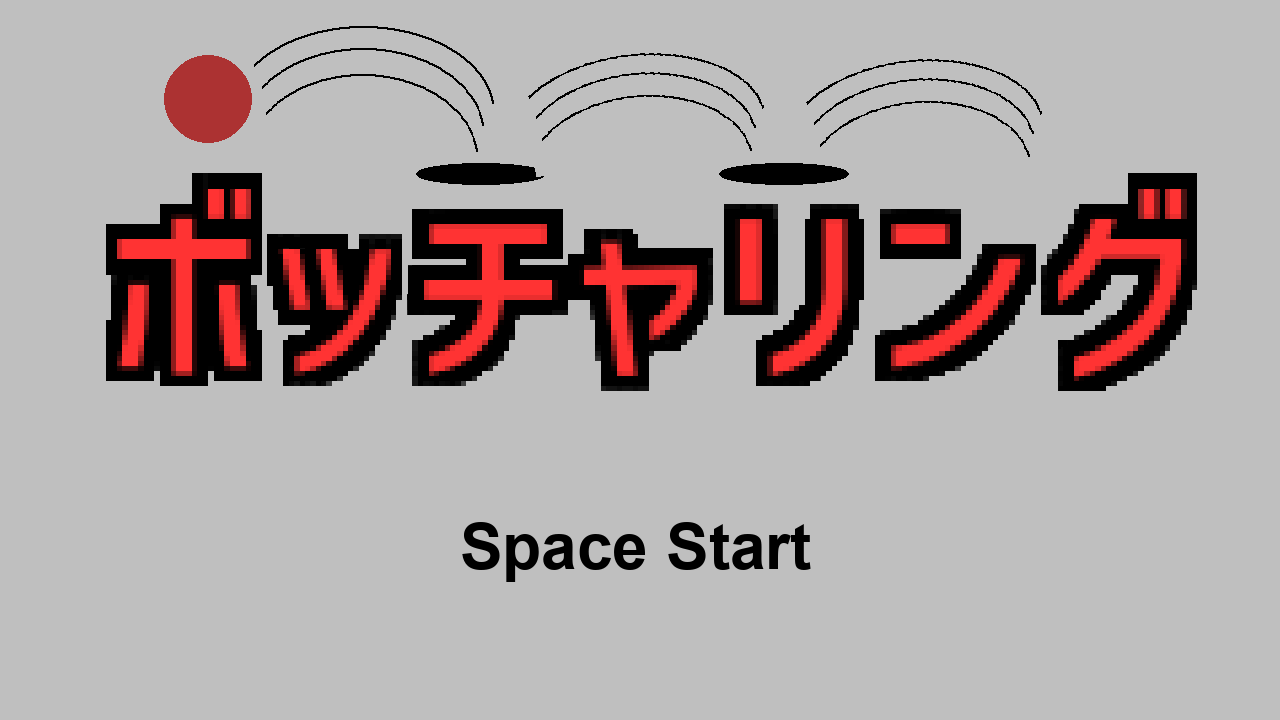
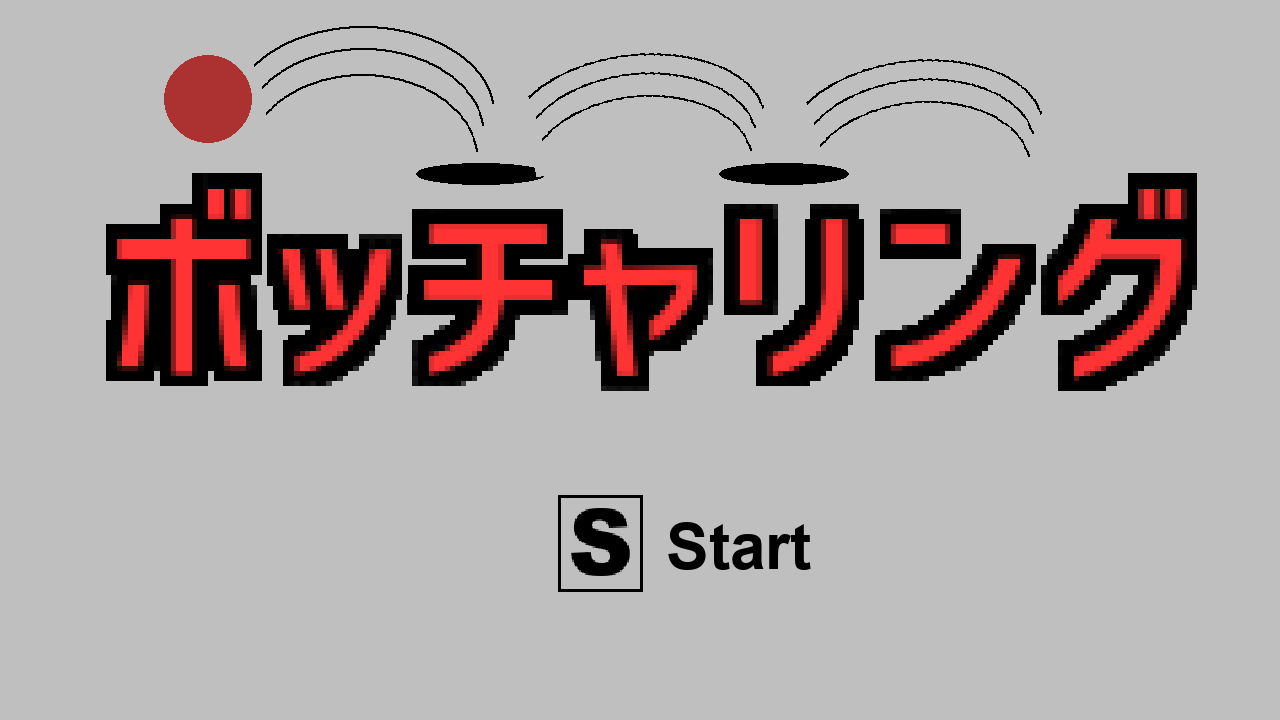
途中

Changed region(s): [[0.3438, 0.6722, 0.5, 0.825]]

diff --git a/scene/GameScene.cpp b/scene/GameScene.cpp
@@ -39,6 +39,11 @@ void GameScene::Initialize(MyEngine* engine, DirectXCommon* dxCommon)
 	engine_->SettingTexture("Resource/wall.png", wallTexture_);
 	engine_->SettingTexture("Resource/uvChecker.png", goalTexture);
 	engine_->SettingTexture("Resource/player.png", playerTexture);
+	engine_->SettingTexture("Resource/title.png", titleTexture);
+	engine_->SettingTexture("Resource/setumei.png", setumeiTexture);
+	engine_->SettingTexture("Resource/clear.png", clearTexture);
+	engine_->SettingTexture("Resource/next.png", nextTexture);
+
 
 	for (int i = 0; i < kMaxFloor; i++) {
 		floor_[i] = new Floor();
@@ -70,7 +75,26 @@ void GameScene::Initialize(MyEngine* engine, DirectXCommon* dxCommon)
 
 	cameraTransform_ = { {1.0f,1.0f,1.0f},{0.5f,0.0f,0.0f},{0.0f,23.0f,-40.0f} };
 
-	stageNum = 0;
+	title_ = new Sprite();
+	title_->Initialize(dxCommon_, engine_);
+
+	setumei_ = new Sprite();
+	setumei_->Initialize(dxCommon_, engine_);
+
+	clear_ = new Sprite();
+	clear_->Initialize(dxCommon_, engine_);
+
+	next_ = new Sprite();
+	next_->Initialize(dxCommon_, engine_);
+
+	spriteData_.LeftTop[0] = { 0.0f,0.0f,0.0f,1.0f };
+	spriteData_.RightDown[0] = { 1280.0f,720.0f,0.0f,1.0f };
+	spriteData_.LeftTop[1] = { 0.0f,0.0f,0.0f,1.0f };
+	spriteData_.RightDown[1] = { 1280.0f,720.0f,0.0f,1.0f };
+	spriteData_.material = { 1.0f,1.0f,1.0f,1.0f };
+	spriteTransform_ = { {1.0f,1.0f,1.0f},{0.0f,0.0f,0.0f},{0.0f,0.0f,0.0f} };
+
+	stageNum = TITLE2;
 }
 
 void GameScene::Update()
@@ -140,6 +164,18 @@ void GameScene::Update()
 		hitCount += 1;
 		player_->Initialize(engine_, dxCommon_);
 		cameraTransform_ = { {1.0f,1.0f,1.0f},{0.5f,0.0f,0.0f},{0.0f,23.0f,-40.0f} };
+	}
+
+	if (stageNum == TITLE2) {
+		if (input_->PushKey(DIK_S)) {
+			stageNum = SETUMEI;
+		}
+	}
+
+	if (stageNum == SETUMEI) {
+		if (input_->PushKey(DIK_W)) {
+			stageNum = 0;
+		}
 	}
 
 	if (stageNum == 0) {
@@ -233,12 +269,10 @@ void GameScene::Update()
 		wallTransform[2] = { {0.1f,0.3f,1.0f},{0.0f,1.57f,0.0f},{1.0f,0.4f,6.0f} };
 
 		if (hitCount == 3) {
-			/*if (input_->PushKey(DIK_SPACE)) {
+			if (input_->PushKey(DIK_SPACE)) {
 				hitCount = 0;
-				stageNum = 5;
-				player_->Initialize(engine_, dxCommon_);
-				cameraTransform_ = { {1.0f,1.0f,1.0f},{0.5f,0.0f,0.0f},{0.0f,23.0f,-40.0f} };
-			}*/
+				stageNum = CLEAR2;
+			}
 		}
 
 	}
@@ -323,6 +357,22 @@ void GameScene::Update()
 
 void GameScene::Draw()
 {
+
+	if (stageNum == TITLE2) {
+		title_->Draw(spriteData_.LeftTop[0], spriteData_.RightDown[0], spriteTransform_, spriteData_.material, titleTexture, directionalLight_);
+	}
+
+	if (stageNum == SETUMEI) {
+		title_->Draw(spriteData_.LeftTop[0], spriteData_.RightDown[0], spriteTransform_, spriteData_.material, setumeiTexture, directionalLight_);
+	}
+
+	if (stageNum == CLEAR2) {
+		title_->Draw(spriteData_.LeftTop[0], spriteData_.RightDown[0], spriteTransform_, spriteData_.material, clearTexture, directionalLight_);
+	}
+
+	if (hitCount == 3) {
+		title_->Draw(spriteData_.LeftTop[0], spriteData_.RightDown[0], spriteTransform_, spriteData_.material, nextTexture, directionalLight_);
+	}
 
 	if (stageNum == 0) {
 

diff --git a/scene/GameScene.h b/scene/GameScene.h
@@ -16,13 +16,17 @@
 #include "Wall.h"
 #include "GoalBall.h"
 #include "Player.h"
+#include "Sprite.h"
 
 enum STAGE {
 	STAGE1,
 	STAGE2,
 	STAGE3,
 	STAGE4,
-	STAGE5
+	STAGE5,
+	TITLE2,
+	CLEAR2,
+	SETUMEI
 };
 
 class GameScene : public IScene
@@ -79,6 +83,21 @@ private:
 	uint32_t playerTexture = 3;
 
 	bool isAttack = false;
+
+
+	Sprite* title_ = nullptr;
+	SpriteData spriteData_{ 0 };
+	Transform spriteTransform_{ 0 };
+	uint32_t titleTexture = 4;
+
+	Sprite* setumei_ = nullptr;
+	uint32_t setumeiTexture = 5;
+
+	Sprite* clear_ = nullptr;
+	uint32_t clearTexture = 6;
+
+	Sprite* next_ = nullptr;
+	uint32_t nextTexture = 7;
 
 	uint32_t stageNum;
 	uint32_t hitCount;

diff --git a/scene/Title.cpp b/scene/Title.cpp
@@ -13,7 +13,7 @@ Title::~Title()
 void Title::Initialize(MyEngine* engine, DirectXCommon* dxCommon) {
 
 	input_->Input::GetInstance();
-	input_->Initialize();
+	/*input_->Initialize();*/
 
 	engine_ = engine;
 	dxCommon_ = dxCommon;
